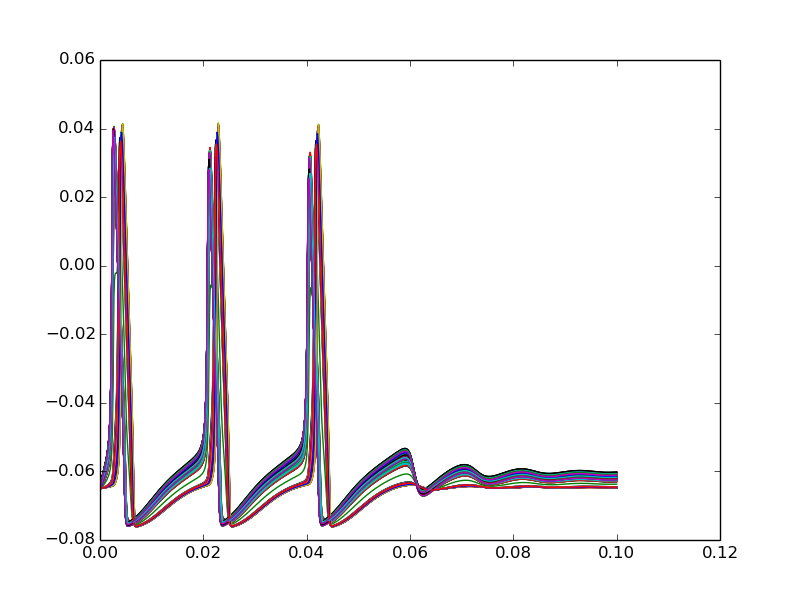
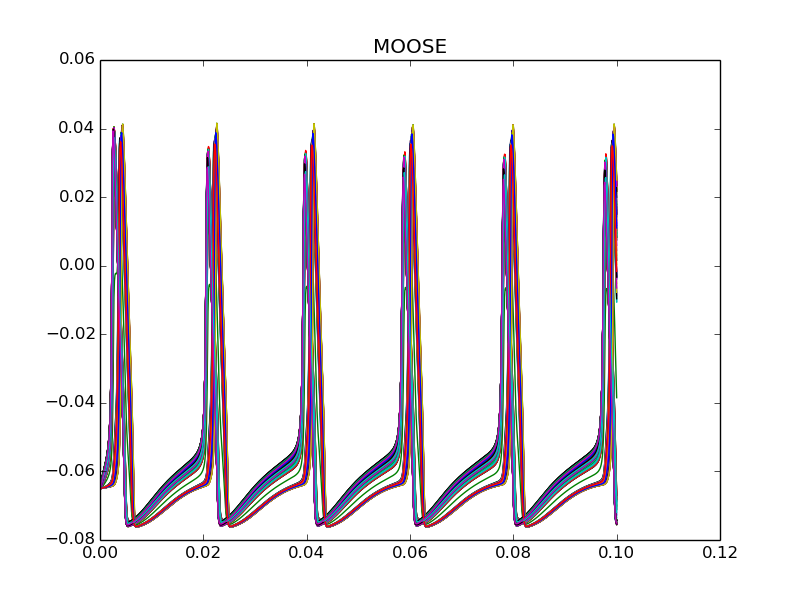
Works with kdr as well.

Changed region(s): [[0.2188, 0.21, 0.7812, 0.9], [0.1562, 0.81, 0.2188, 0.9], [0.4688, 0.06, 0.5625, 0.09]]

diff --git a/moose_nrn_equivalence_testing/comparision_with_simple_HH_model_additional_mechanism/moose_to_neuron.py b/moose_nrn_equivalence_testing/comparision_with_simple_HH_model_additional_mechanism/moose_to_neuron.py
@@ -41,6 +41,24 @@ def moose_compt_to_nrn_section_params(mooseCompt):
     props['sarea'] = sarea 
     return props
 
+def write_mechanism_line(chan, props):
+    mech = chan.name
+    param = {}
+    line = [ "insert %s {" % mech ]
+    gbar, ek = chan.Gbar, chan.Ek
+    gbar = gbar / props['sarea'] 
+    nrn_gbar = gbar * 1e-4
+    param['gbar_%s' % mech] = nrn_gbar
+    param['e_%s' % mech] = 1e3*float(ek)
+    if "na" in mech.lower():
+        param['e_na'] = 1e3*float(ek)
+    elif "k" in mech.lower():
+        param['e_k'] = 1e3*float(ek)
+    line += ["%s=%s" % (k, param[k]) for k in param]
+    line.append("}")
+    return " ".join(line)
+
+
 def create_section_in_neuron(mooseCompt):
     secname = nrn_name(mooseCompt)
     text = [ "create %s" % secname ]
@@ -59,13 +77,7 @@ def create_section_in_neuron(mooseCompt):
     for chanVec in channels:
         for chan in chanVec:
             mech = chan.name
-            gbar, ek = chan.Gbar, chan.Ek
-            gbar = gbar / props['sarea'] 
-            nrn_gbar = gbar * 1e-4
-            params.append('insert {0} {{gbar_{0}={1} e_{0}={2} }}'.format(
-                mech, nrn_gbar, float(ek)*1e3)
-                )
-
+            params.append(write_mechanism_line(chan, props))
     text.append("\n\t".join(params))
     text.append("}\n\n")
     return "\n".join(text)

diff --git a/moose_nrn_equivalence_testing/comparision_with_simple_HH_model_additional_mechanism/xplot.py b/moose_nrn_equivalence_testing/comparision_with_simple_HH_model_additional_mechanism/xplot.py
@@ -4,7 +4,7 @@
 
     This program uses matplotlib to plot xplot like data.
 
-Last modified: Fri May 23, 2014  01:40AM
+Last modified: Thu Jul 23, 2015  04:54PM
 
 """
     
@@ -53,7 +53,8 @@ def zipIt(ys):
             result[i].append(e)
     return result
 
-def plotData( outFile = None ):
+def plotData( args ):
+    outFile = args.output
     global data 
     for file in data:
         xvec, yx = data[file]
@@ -64,6 +65,8 @@ def plotData( outFile = None ):
             sys.exit(0)
         for yvec in yvecs:
             pylab.plot(xvec, yvec)
+    if args.title:
+        pylab.title(str(args.title))
     if not outFile:
         pylab.show()
     else:
@@ -81,6 +84,10 @@ if __name__ == "__main__":
             , default = None
             , help = "Output file to store plot"
             )
+    parser.add_argument("-t", "--title"
+            , default = ""
+            , help = "Title of the plot"
+            )
     args = parser.parse_args()
     [ buildData(file) for file in args.file ]
-    plotData( outFile = args.output )
+    plotData( args )

diff --git a/moose_nrn_equivalence_testing/comparision_with_simple_HH_model_additional_mechanism/check_equivalence.py b/moose_nrn_equivalence_testing/comparision_with_simple_HH_model_additional_mechanism/check_equivalence.py
@@ -18,7 +18,8 @@ records_ = {}
 chanProto_ = [
         ['./cellMechanisms/KConductance/KChannel_HH.xml'], 
         ['./cellMechanisms/NaConductance/NaChannel_HH.xml'],
-        ['./cellMechanisms/LeakConductance/LeakConductance.xml']
+        ['./cellMechanisms/LeakConductance/LeakConductance.xml'],
+        [ '../chans/kdr.xml' ]
         ]
 
 passiveDistrib_ = [ 
@@ -31,6 +32,7 @@ chanDistrib_ = [
         [  "NaConductance", "#", "Gbar", "1200" ]
         , [ "KConductance", "#", "Gbar", "360" ]
         , [ "LeakConductance", "#", "Gbar", "3" ]
+        , [ "kdr", "#", "Gbar", "10" ]
         ]
 
 #chanDistrib = []
